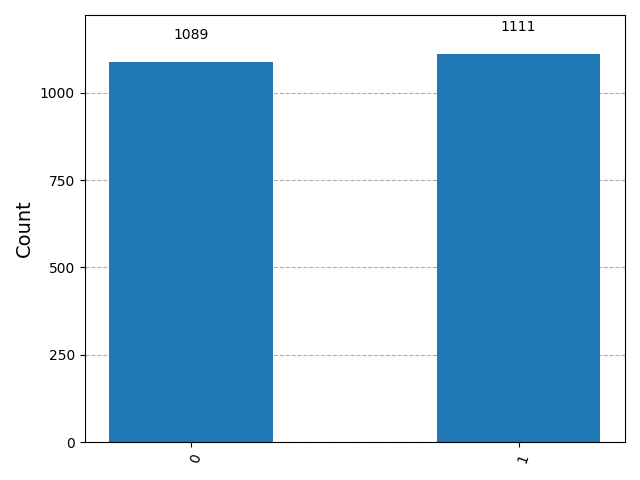
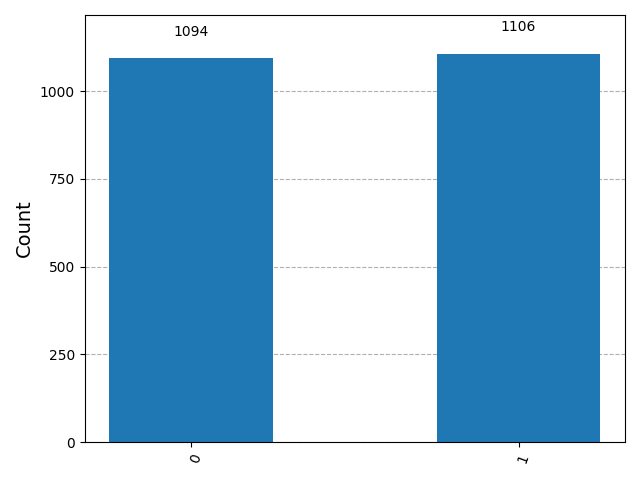
added explanation

diff --git a/src/main.py b/src/main.py
@@ -3,19 +3,28 @@ from qiskit.primitives import StatevectorSampler
 from qiskit.visualization import plot_histogram
 
 # Build a simple one-qubit circuit for beginners.
-# We create a single qubit and a matching classical bit to store the measurement.
+# We create a single qubit and a matching classical bit to store the measurement:
+# QuantumCircuit(number of quantum bits, number of classical bits). 
+# Each qubit starts in state |0⟩ and can be modified using quantum gates. 
+# The number of classical bits is optional when using measure_all()
 qc = QuantumCircuit(1, 1)
 
 # Apply a Hadamard gate to qubit 0.
 # This puts the qubit into a superposition of |0> and |1>.
+# This turns a definite state (|0>) into a 50/50 random state.
+# After measurement, the result has an equal chance of being 0 or 1.
 qc.h(0)
 
 # Measure the qubit into the classical register.
 # After measurement, the state collapses to either 0 or 1.
 qc.measure_all()
 
-# Use the statevector sampler to run the circuit many times.
-# shots=2200 lets us see the probabilities as measurement counts.
+# StatevectorSampler() is a Qiskit object that executes a quantum circuit and 
+# returns simulated measurement results.
+# Execute the quantum circuit 2200 times (shots).
+# Each execution produces a measurement result (e.g., 0 or 1).
+# Running the circuit many times allows us to estimate the probability
+# distribution by counting how often each result occurs.
 sampler = StatevectorSampler()
 result = sampler.run([qc], shots=2200).result()
 